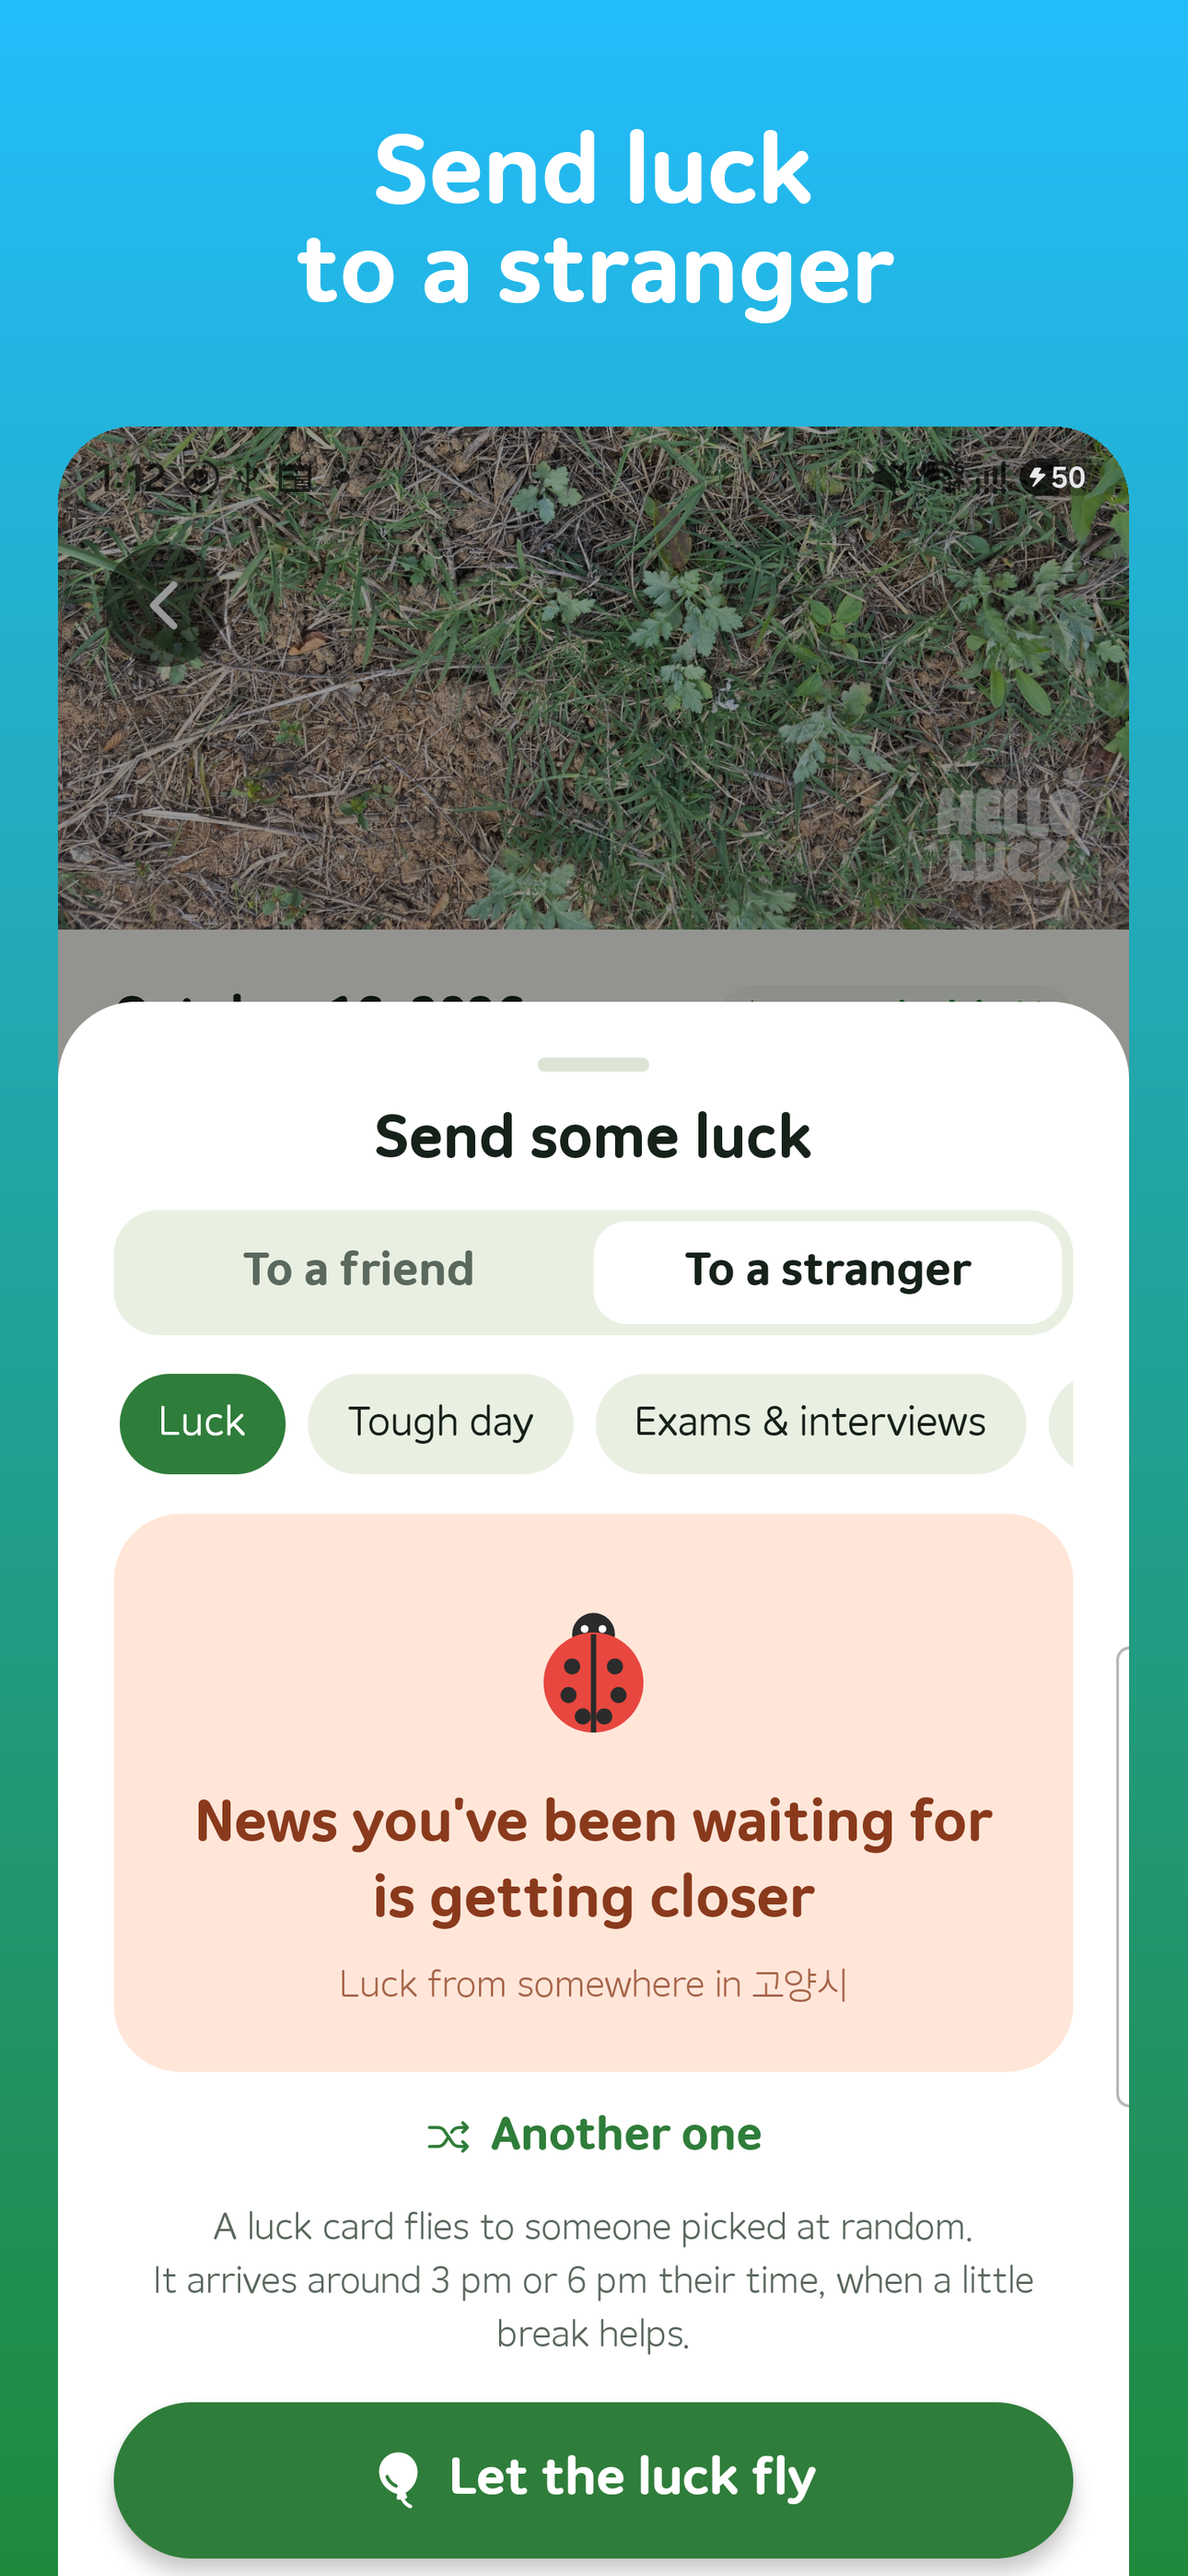
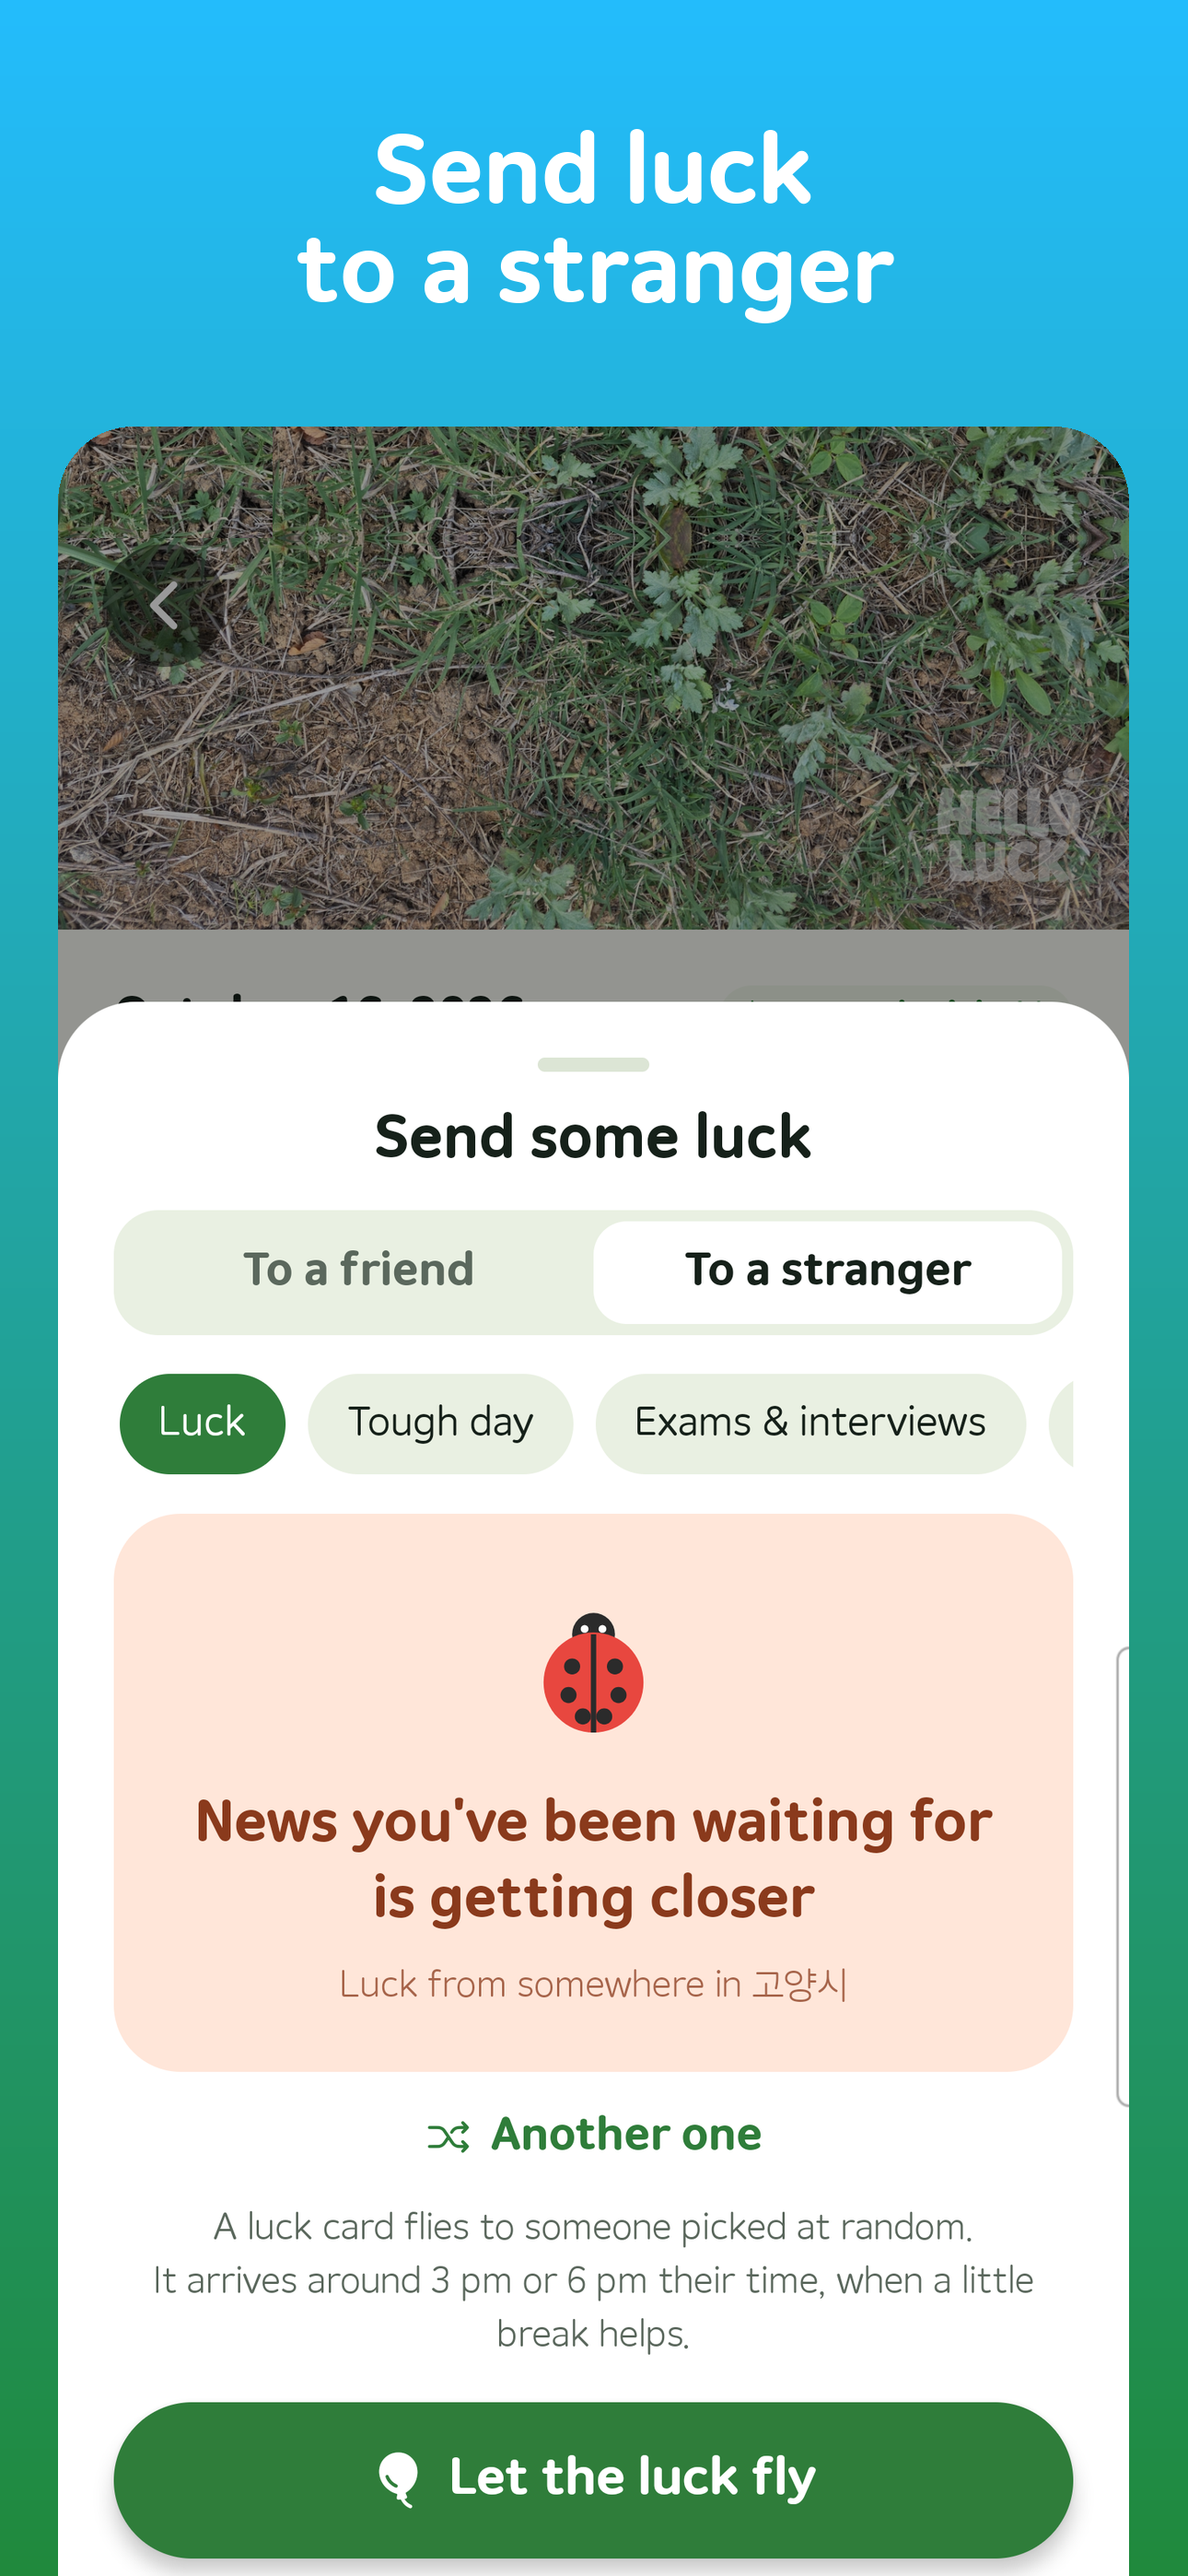
App Store 스크린샷에서 Android 상태바 제거 (심사 2.3.10 반려 대응)
- store-listing/strip-status-bar.py: 상태바 띠를 배경색(단색 화면)이나 바로 아래 사진(풀밭 화면)으로 채움
- 6.9" 한국어·영어 각 3장 교체, App Store 스펙 버전을 심사 중인 1.0.2로

Changed region(s): [[0.031, 0.1556, 0.9612, 0.2178]]

diff --git a/store-listing/strip-status-bar.py b/store-listing/strip-status-bar.py
@@ -1,0 +1,71 @@
+"""Remove the Android status bar from the App Store screenshots (App Review 2.3.10, 2026-10-27).
+
+    python store-listing/strip-status-bar.py
+
+The App Store shots were taken on an Android phone, so their top strip shows Android's clock and icons. Apple rejects
+non-iOS status bars. This blanks that strip in place: flat screens get their own background colour, screens with a
+photo under the status bar get the photo rows just below it, mirrored. Geometry follows make-shots.py (a 1440x3120
+shot composed at 1290x2796). Run it again after make-shots.py whenever the App Store shots are remade.
+"""
+import os
+
+from PIL import Image, ImageDraw, ImageFont
+
+HERE = os.path.dirname(os.path.abspath(__file__))
+ROOT = os.path.dirname(HERE)
+FONT = os.path.join(ROOT, "assets", "fonts", "SDGothicNeoRound-hEb.ttf")
+OUT = os.path.join(HERE, "assets", "appstore", "screenshots-6.9")
+W, H = 1290, 2796
+RAW_W, RAW_H = 1440, 3120
+RAW_BAR = 150  # the status bar's height on the phone (1440 px wide), with a little margin under the icons
+# Same captions as make-shots.py, needed to find where the shot sits under them.
+CAPTIONS = {
+    "02": ("찾은 행운은\n나만의 기록장에", "Every find goes\ninto your lucky journal"),
+    "04": ("모르는 누군가에게\n행운을 보내요", "Send luck\nto a stranger"),
+    "06": ("모을수록 열리는\n행운 배지", "Badges unlock\nas your luck grows"),
+}
+PHOTO_TOP = {"04"}  # screens with a camera photo under the status bar
+
+
+def shot_box(caption):
+    """Where make-shots.py pasted the phone screen: left, top, width and corner radius."""
+    font = ImageFont.truetype(FONT, round(W * 0.075))
+    top = round(H * 0.05)
+    d = ImageDraw.Draw(Image.new("RGB", (W, H)))
+    cap_bottom = d.multiline_textbbox((W / 2, top), caption, font=font, anchor="ma", spacing=round(W * 0.02))[3]
+    sh = H - cap_bottom - round(H * 0.04)
+    sw = round(RAW_W * (sh / RAW_H) * 1.08)
+    return (W - sw) // 2, cap_bottom + round(H * 0.04), sw, round(sw * 0.07)
+
+
+def strip(path, key, caption):
+    im = Image.open(path).convert("RGB")
+    x0, y0, sw, r = shot_box(caption)
+    bar = round(RAW_BAR * sw / RAW_W)
+    box = (x0, y0, x0 + sw, y0 + bar)
+    if key in PHOTO_TOP:
+        fill = im.crop((x0, y0 + bar, x0 + sw, y0 + 2 * bar)).transpose(Image.FLIP_TOP_BOTTOM)
+        # The back button sits just under the bar on the left: borrow plain grass from further right there.
+        left = round(sw * 0.2)
+        fill.paste(im.crop((x0 + left, y0 + bar, x0 + 2 * left, y0 + 2 * bar)).transpose(Image.FLIP_TOP_BOTTOM), (0, 0))
+    else:
+        fill = Image.new("RGB", (sw, bar), im.getpixel((x0 + sw // 2, y0 + bar + 4)))
+    # Only inside the screen's rounded corners; the gradient around it stays.
+    mask = Image.new("L", (sw, bar), 0)
+    ImageDraw.Draw(mask).rounded_rectangle([0, 0, sw - 1, bar + 2 * r], r, fill=255)
+    im.paste(fill, box[:2], mask)
+    im.save(path)
+    return bar
+
+
+def main(keys=CAPTIONS):
+    for lang, i in (("ko", 0), ("en", 1)):
+        for key, captions in ((k, CAPTIONS[k]) for k in keys):
+            path = os.path.join(OUT, lang, f"{key}-{lang}-{W}x{H}.png")
+            print(path, strip(path, key, captions[i]))
+
+
+if __name__ == "__main__":
+    import sys
+
+    main(sys.argv[1:] or CAPTIONS)
